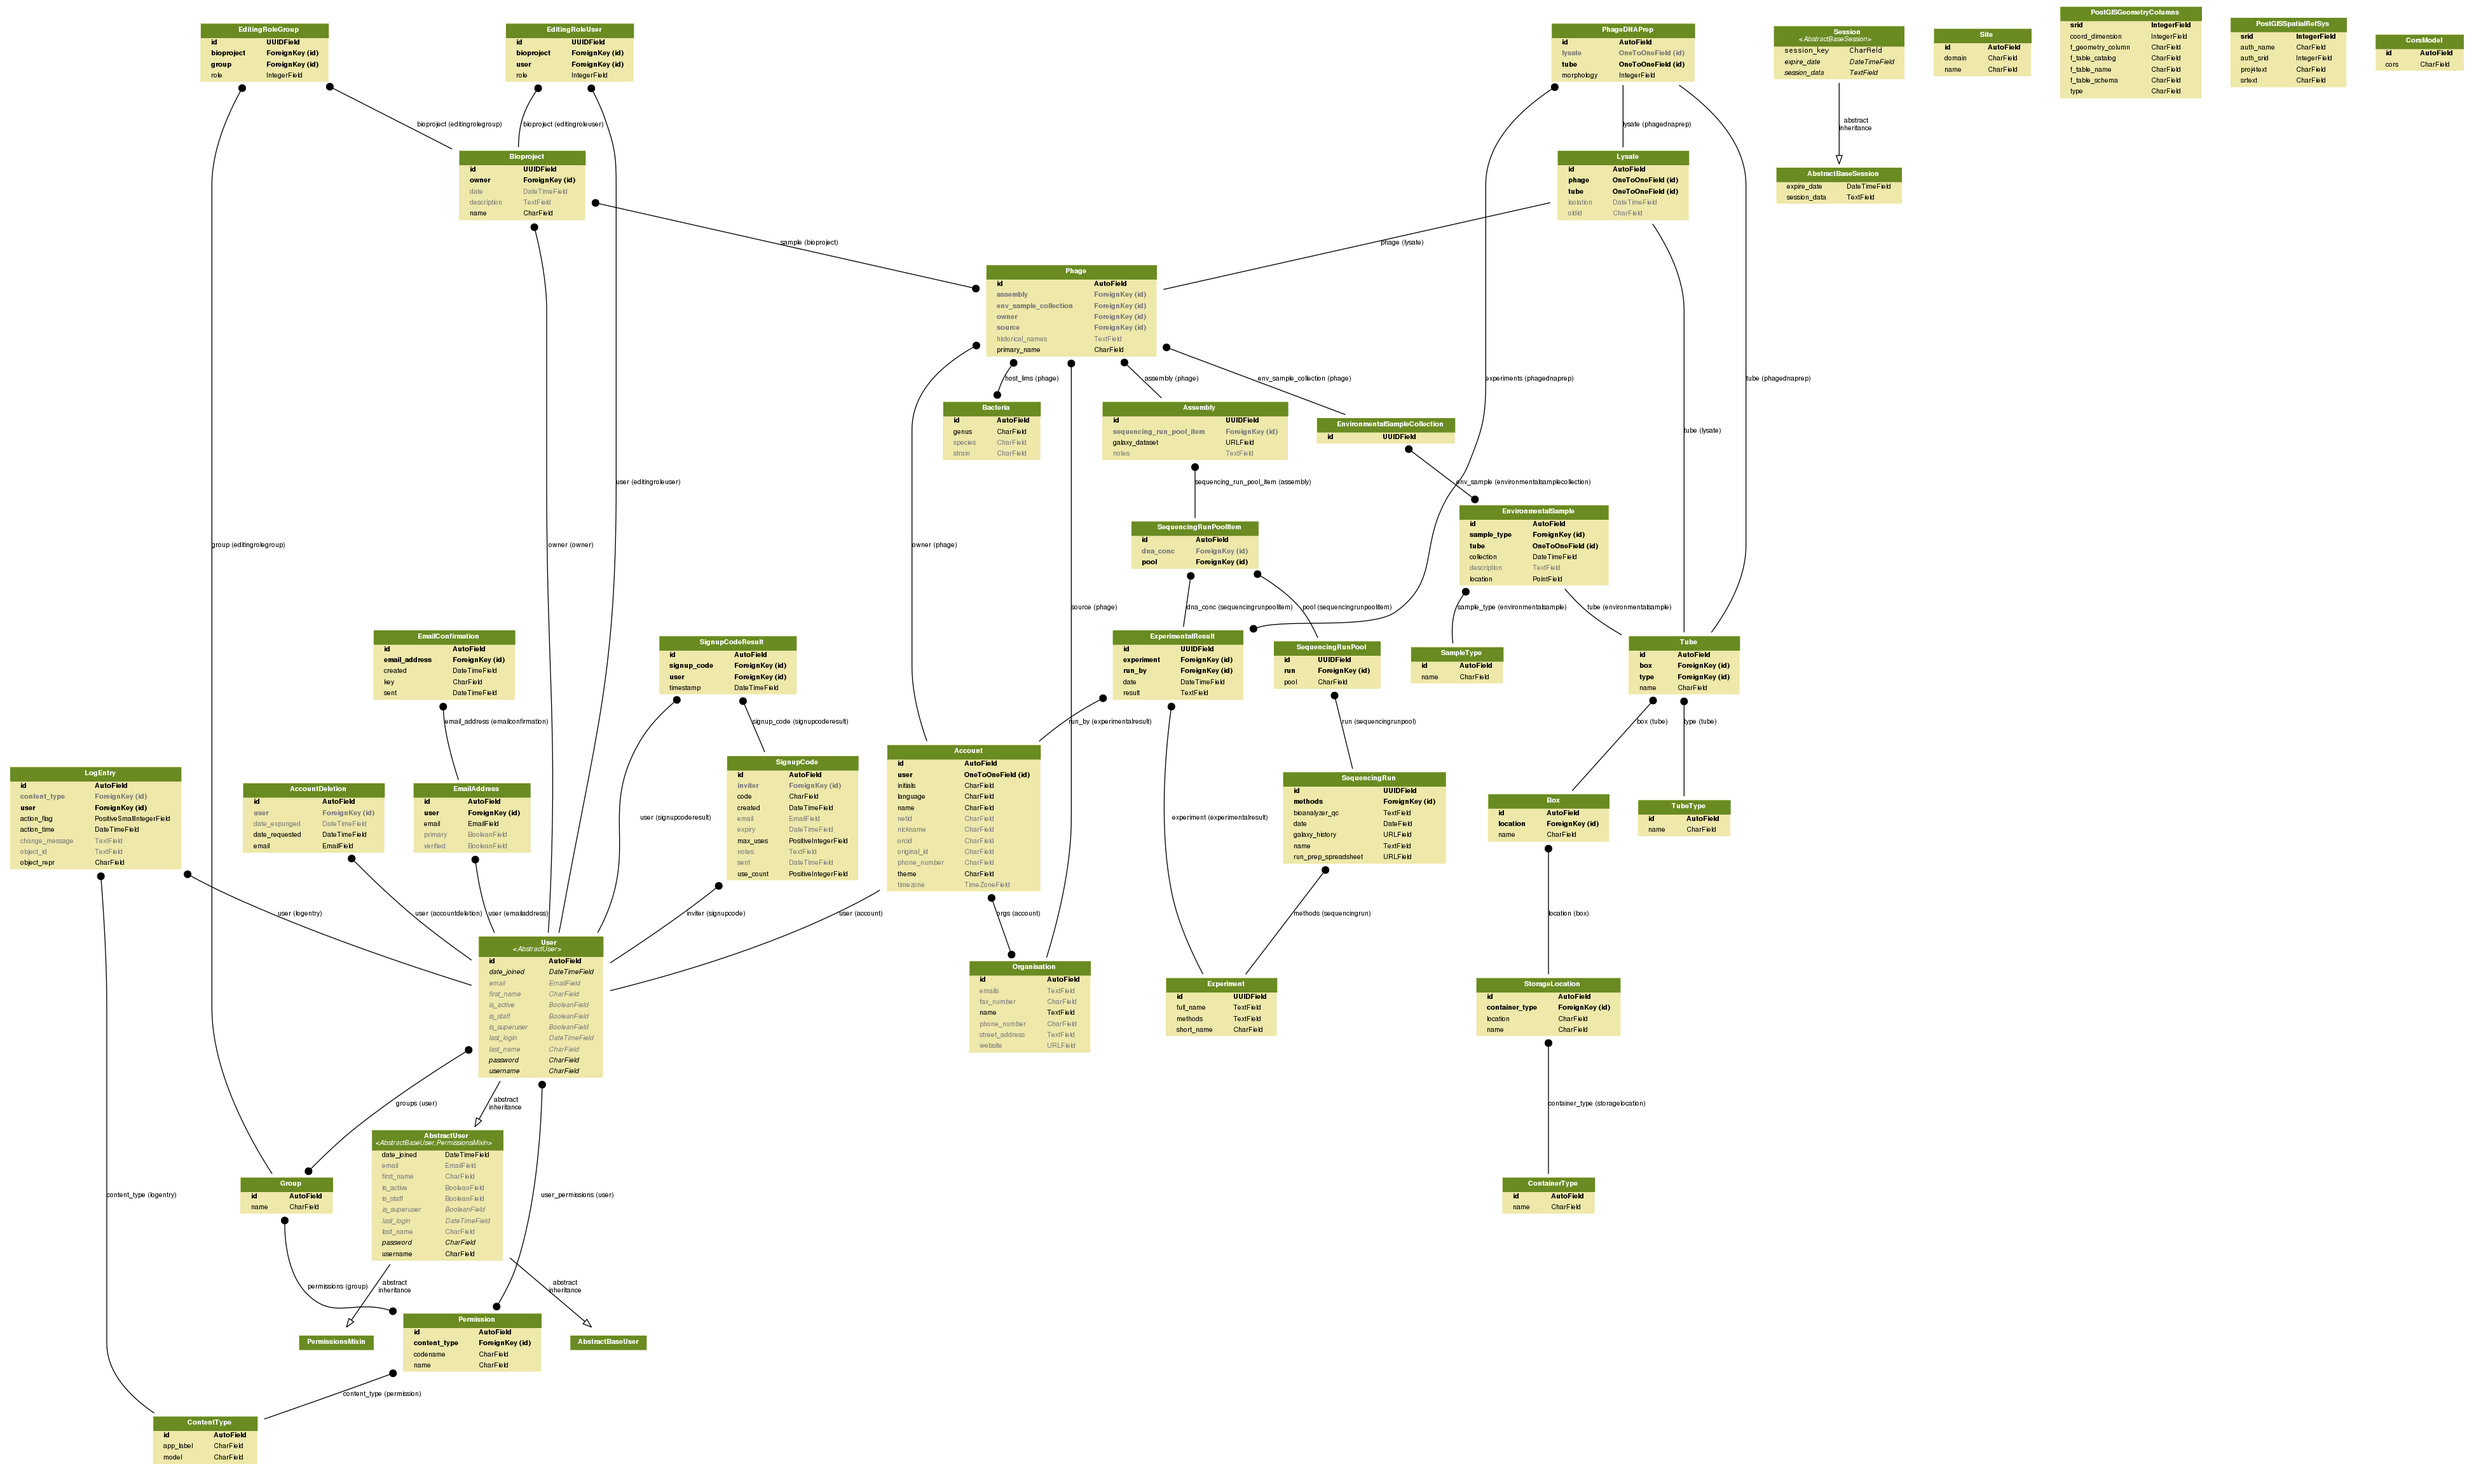
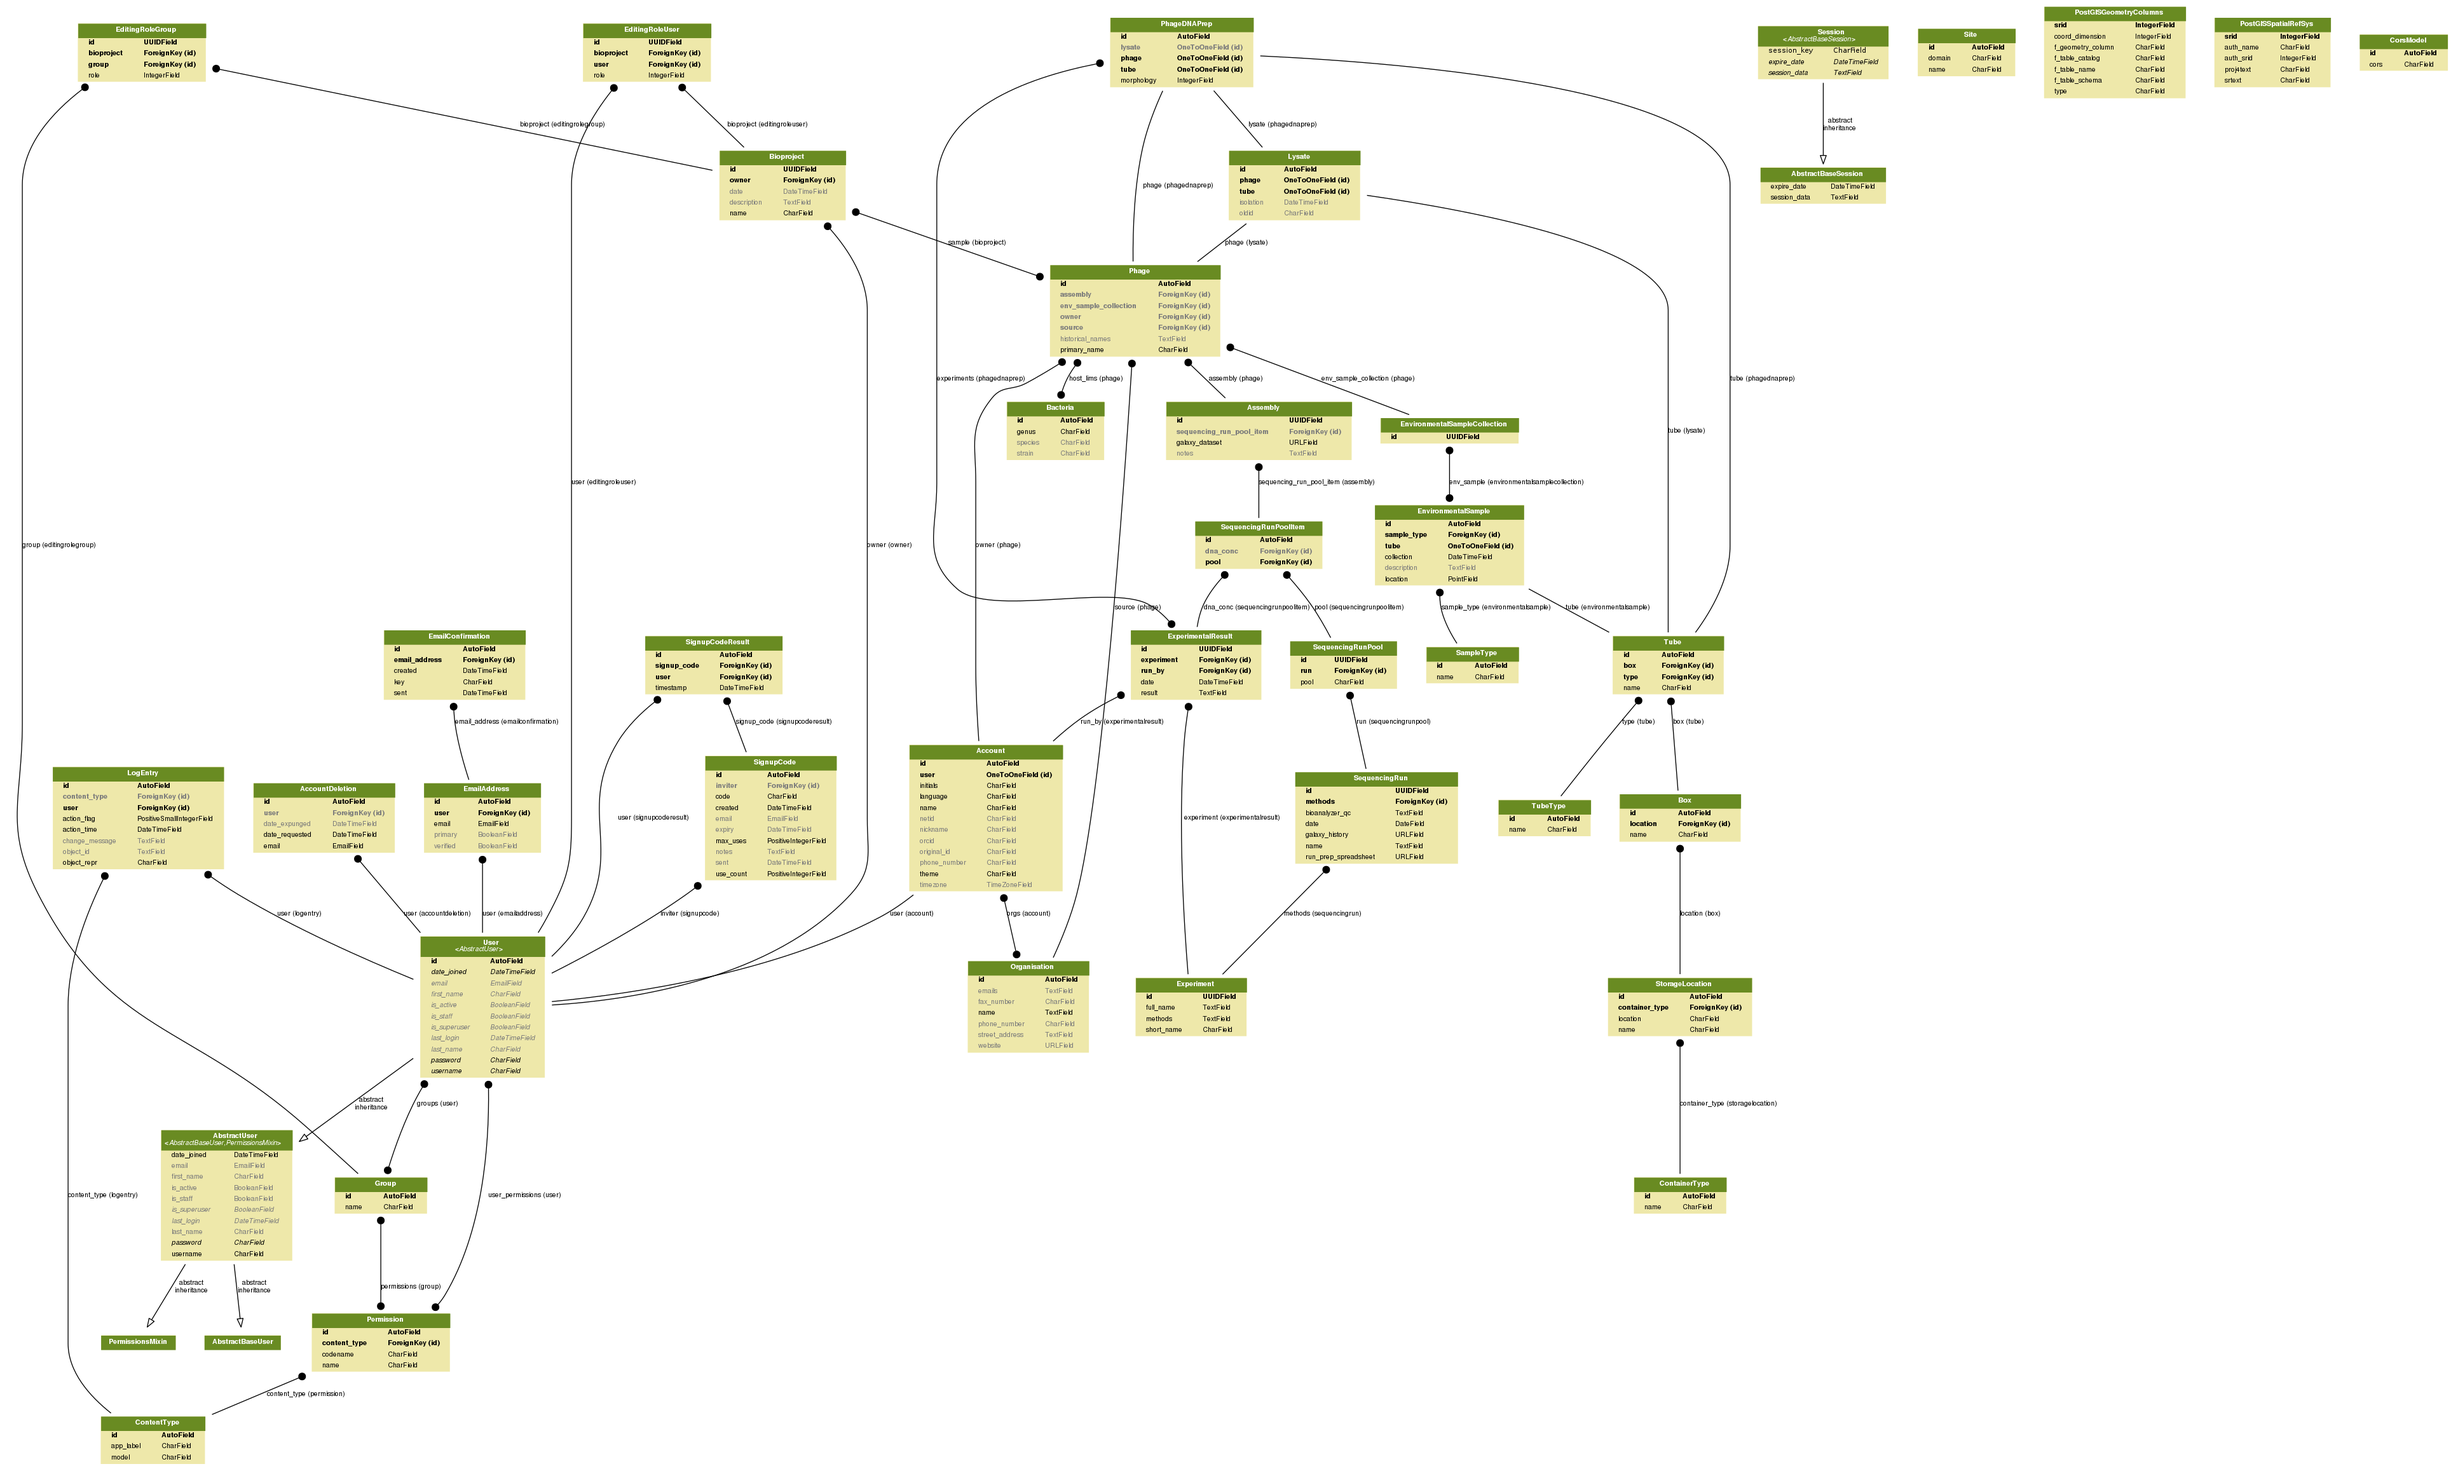
New line in models

diff --git a/lims/models.py b/lims/models.py
@@ -194,6 +194,7 @@ class ExperimentalResult(models.Model):
 class PhageDNAPrep(models.Model):
     # HAS_CPT_HASHID
     lysate = models.OneToOneField(Lysate, blank=True, null=True)
+    phage = models.OneToOneField('Phage')
 
     morphology = models.IntegerField(choices=PHAGE_MORPHOLOGY)
 
@@ -280,6 +281,9 @@ class SequencingRunPoolItem(models.Model):
 
 
 class Assembly(models.Model):
+    """
+    This represents a single assembly run of a single genome's sequencing data
+    """
     id = models.UUIDField(primary_key=True, default=uuid.uuid4, editable=False)
     sequencing_run_pool_item = models.ForeignKey(SequencingRunPoolItem, blank=True, null=True)
     galaxy_dataset = models.URLField()

diff --git a/lims/migrations/0003_phagednaprep_phage.py b/lims/migrations/0003_phagednaprep_phage.py
@@ -1,0 +1,22 @@
+# -*- coding: utf-8 -*-
+# Generated by Django 1.10.1 on 2016-10-31 20:15
+from __future__ import unicode_literals
+
+from django.db import migrations, models
+import django.db.models.deletion
+
+
+class Migration(migrations.Migration):
+
+    dependencies = [
+        ('lims', '0002_auto_20161031_1935'),
+    ]
+
+    operations = [
+        migrations.AddField(
+            model_name='phagednaprep',
+            name='phage',
+            field=models.OneToOneField(default=1, on_delete=django.db.models.deletion.CASCADE, to='lims.Phage'),
+            preserve_default=False,
+        ),
+    ]
